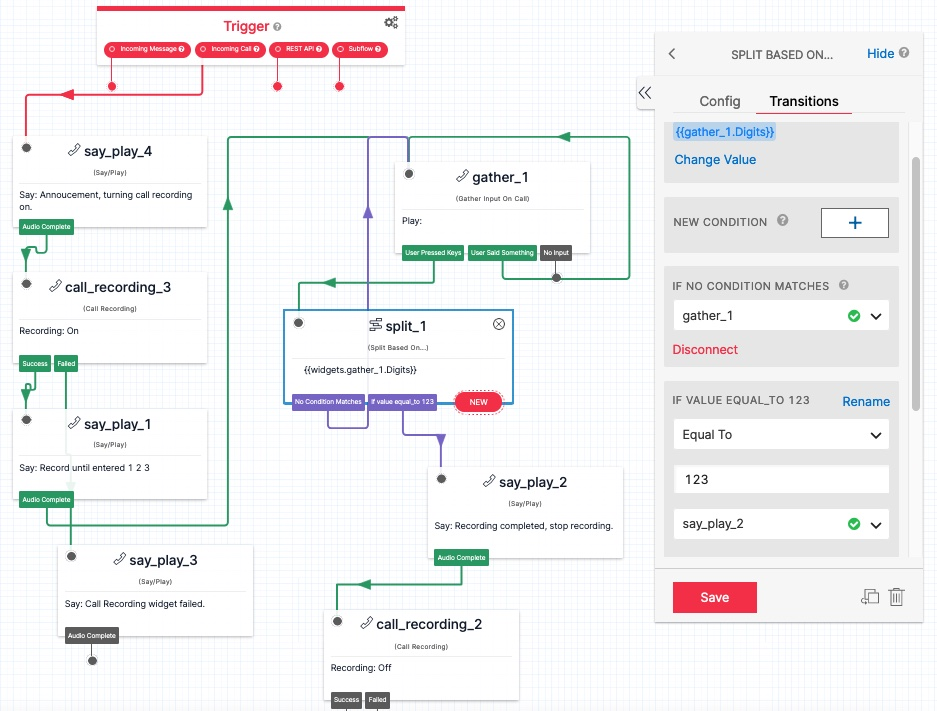
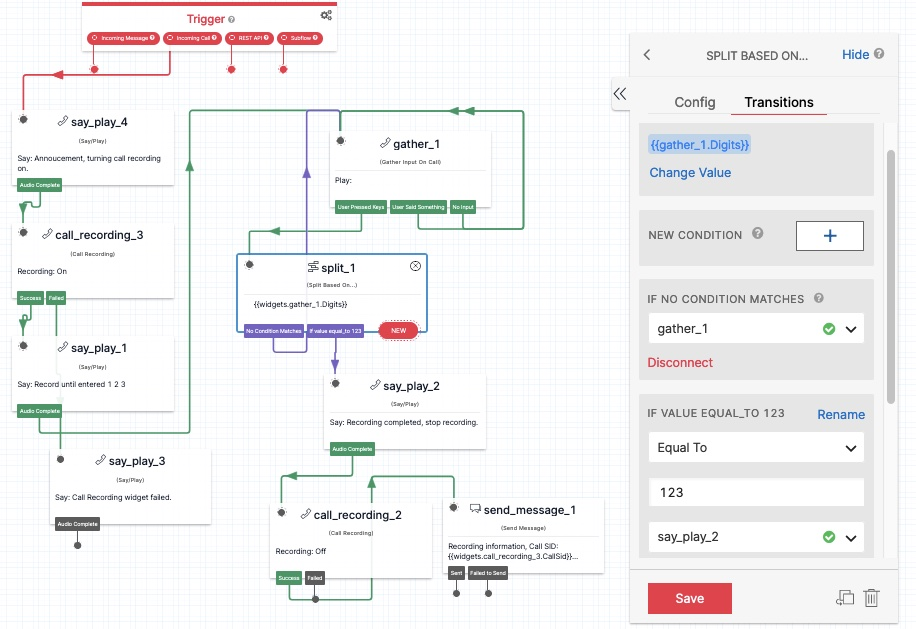
Update

diff --git a/studio/VoiceRecordCode/StudioFlowJSON.md b/studio/VoiceRecordCode/StudioFlowJSON.md
@@ -1,0 +1,248 @@
+{
+  "description": "Gather until code entered",
+  "states": [
+    {
+      "name": "Trigger",
+      "type": "trigger",
+      "transitions": [
+        {
+          "event": "incomingMessage"
+        },
+        {
+          "next": "say_play_4",
+          "event": "incomingCall"
+        },
+        {
+          "event": "incomingRequest"
+        },
+        {
+          "event": "incomingParent"
+        }
+      ],
+      "properties": {
+        "offset": {
+          "x": -280,
+          "y": 20
+        }
+      }
+    },
+    {
+      "name": "say_play_1",
+      "type": "say-play",
+      "transitions": [
+        {
+          "next": "gather_1",
+          "event": "audioComplete"
+        }
+      ],
+      "properties": {
+        "voice": "Polly.Amy",
+        "offset": {
+          "x": -410,
+          "y": 640
+        },
+        "loop": 1,
+        "say": "Record until entered 1 2 3",
+        "language": "en-GB"
+      }
+    },
+    {
+      "name": "gather_1",
+      "type": "gather-input-on-call",
+      "transitions": [
+        {
+          "next": "split_1",
+          "event": "keypress"
+        },
+        {
+          "next": "gather_1",
+          "event": "speech"
+        },
+        {
+          "next": "gather_1",
+          "event": "timeout"
+        }
+      ],
+      "properties": {
+        "number_of_digits": 3,
+        "speech_timeout": "auto",
+        "offset": {
+          "x": 180,
+          "y": 260
+        },
+        "loop": 1,
+        "finish_on_key": "#",
+        "stop_gather": true,
+        "gather_language": "en",
+        "profanity_filter": "false",
+        "timeout": 30
+      }
+    },
+    {
+      "name": "split_1",
+      "type": "split-based-on",
+      "transitions": [
+        {
+          "next": "gather_1",
+          "event": "noMatch"
+        },
+        {
+          "next": "say_play_2",
+          "event": "match",
+          "conditions": [
+            {
+              "friendly_name": "If value equal_to 123",
+              "arguments": [
+                "{{widgets.gather_1.Digits}}"
+              ],
+              "type": "equal_to",
+              "value": "123"
+            }
+          ]
+        }
+      ],
+      "properties": {
+        "input": "{{widgets.gather_1.Digits}}",
+        "offset": {
+          "x": 10,
+          "y": 490
+        }
+      }
+    },
+    {
+      "name": "say_play_2",
+      "type": "say-play",
+      "transitions": [
+        {
+          "next": "call_recording_2",
+          "event": "audioComplete"
+        }
+      ],
+      "properties": {
+        "voice": "Polly.Amy",
+        "offset": {
+          "x": 170,
+          "y": 710
+        },
+        "loop": 1,
+        "say": "Recording completed,\nstop recording.",
+        "language": "en-GB"
+      }
+    },
+    {
+      "name": "call_recording_2",
+      "type": "record-call",
+      "transitions": [
+        {
+          "next": "send_message_1",
+          "event": "success"
+        },
+        {
+          "event": "failed"
+        }
+      ],
+      "properties": {
+        "record_call": false,
+        "offset": {
+          "x": 70,
+          "y": 950
+        },
+        "trim": "do-not-trim",
+        "recording_status_callback": "",
+        "recording_status_callback_method": "POST",
+        "recording_status_callback_events": "completed",
+        "recording_channels": "dual"
+      }
+    },
+    {
+      "name": "call_recording_3",
+      "type": "record-call",
+      "transitions": [
+        {
+          "next": "say_play_1",
+          "event": "success"
+        },
+        {
+          "next": "say_play_3",
+          "event": "failed"
+        }
+      ],
+      "properties": {
+        "record_call": true,
+        "offset": {
+          "x": -410,
+          "y": 430
+        },
+        "trim": "do-not-trim",
+        "recording_status_callback": "https://tfpecho.herokuapp.com/rec",
+        "recording_status_callback_method": "POST",
+        "recording_status_callback_events": "completed",
+        "recording_channels": "dual"
+      }
+    },
+    {
+      "name": "say_play_3",
+      "type": "say-play",
+      "transitions": [
+        {
+          "event": "audioComplete"
+        }
+      ],
+      "properties": {
+        "offset": {
+          "x": -340,
+          "y": 850
+        },
+        "loop": 1,
+        "say": "Call Recording widget failed."
+      }
+    },
+    {
+      "name": "say_play_4",
+      "type": "say-play",
+      "transitions": [
+        {
+          "next": "call_recording_3",
+          "event": "audioComplete"
+        }
+      ],
+      "properties": {
+        "voice": "Polly.Amy",
+        "offset": {
+          "x": -410,
+          "y": 220
+        },
+        "loop": 1,
+        "say": "Annoucement, turning call recording on.",
+        "language": "en-GB"
+      }
+    },
+    {
+      "name": "send_message_1",
+      "type": "send-message",
+      "transitions": [
+        {
+          "event": "sent"
+        },
+        {
+          "event": "failed"
+        }
+      ],
+      "properties": {
+        "offset": {
+          "x": 390,
+          "y": 940
+        },
+        "service": "{{trigger.message.InstanceSid}}",
+        "channel": "{{trigger.message.ChannelSid}}",
+        "from": "{{flow.channel.address}}",
+        "to": "+16505552222",
+        "body": "Recording information,\nCall SID: {{widgets.call_recording_3.CallSid}} \nRecording Sid: {{widgets.call_recording_3.Sid}} \nTap to listen: https://api.twilio.com/2010-04-01/Accounts/\n{{widgets.call_recording_3.AccountSid}}/Recordings/{{widgets.call_recording_3.Sid}}"
+      }
+    }
+  ],
+  "initial_state": "Trigger",
+  "flags": {
+    "allow_concurrent_calls": true
+  }
+}

diff --git a/studio/VoiceRecordCode/README.md b/studio/VoiceRecordCode/README.md
@@ -9,6 +9,76 @@ Recording loop, until a code is entered:
 
 <img src="RecordUntilCodeEntered.jpg" width="400"/>
 
+The sample Studio flow JSON includes a property that you should either remove or set.
+When the record is complete and ready to be downloaded or listened, Twilio will make a request to that URL.
+````
+"recording_status_callback": "https://example.com/record"
+````
+If you want to send an SMS message with the recording information, 
+add the following into the body of the SMS Message send widget:
+````
+Recording information,
+Call SID: {{widgets.call_recording_3.CallSid}} 
+Recording Sid: {{widgets.call_recording_3.Sid}} 
+Tap to listen: https://api.twilio.com/2010-04-01/Accounts/
+{{widgets.call_recording_3.AccountSid}}/Recordings/{{widgets.call_recording_3.Sid}}
+````
+And, in the SMS Message send widget, set the To phone number:
+````
+"to": "+16505552222"
+````
+
+Sample request from Twilio:
+````
+--------------------------------------------------------------------------------------
++ POST URL : https://tfpecho.herokuapp.com/rec
+--------------
++ Headers : 
+++ 0: "host":"tfpecho.herokuapp.com"
+++ 1: "connection":"close"
+++ 2: "content-type":"application/x-www-form-urlencoded; charset=UTF-8"
+++ 3: "i-twilio-idempotency-token":"d50dc30c-5d0d-418d-92ea-12cd8fd05f09"
+++ 4: "x-twilio-signature":"USnT9hzNGvu4NhpxyupDaSoSVyA="
+++ 5: "accept":"*/*"
+++ 6: "x-home-region":"us1"
+++ 7: "user-agent":"TwilioProxy/1.1"
+++ 8: "x-request-id":"7537df34-5cbc-4688-9a7d-cd3411114cbe"
+++ 9: "x-forwarded-for":"44.202.134.240"
+++ 10: "x-forwarded-proto":"https"
+++ 11: "x-forwarded-port":"443"
+++ 12: "via":"1.1 vegur"
+++ 13: "connect-time":"0"
+++ 14: "x-request-start":"1650498339596"
+++ 15: "total-route-time":"0"
+++ 16: "content-length":"495"
+--------------
++ POST content raw : 
+RecordingSource=StartCallRecordingAPI&RecordingTrack=both&RecordingSid=REe...1&RecordingUrl=https%3A%2F%2Fapi.twilio.com%2F2010-04-01%2FAccounts%2FACae...3%2FRecordings%2FREe...1&RecordingStatus=completed&RecordingChannels=2&ErrorCode=0&CallSid=CA4140f4ee9836c07ff474b7d2d9b7f75a&RecordingStartTime=Wed%2C%2020%20Apr%202022%2023%3A45%3A25%20%2B0000&AccountSid=ACa...3&RecordingDuration=11
++ POST content name value pairs: 
+   "RecordingSource": "StartCallRecordingAPI",
+   "RecordingTrack": "both",
+   "RecordingSid": "REebf78ad0825ad0baefd8eab4dae55691",
+   "RecordingUrl": "https://api.twilio.com/2010-04-01/Accounts/ACa...3/Recordings/REe...1",
+   "RecordingStatus": "completed",
+   "RecordingChannels": "2",
+   "ErrorCode": "0",
+   "CallSid": "CA4140f4ee9836c07ff474b7d2d9b7f75a",
+   "RecordingStartTime": "Wed, 20 Apr 2022 23:45:25 +0000",
+   "AccountSid": "ACa...3",
+   "RecordingDuration": "11",
+````
+SMS message with the Recording info:
+````
+Recording information,
+Call SID: CAea46c7a62a66dd9ddd6399ca0f0a885e 
+Recording Sid: REe...1
+Tap to listen: 
+````
+Then, add the Recording Sid into the following URL:
+````
+https://api.twilio.com/2010-04-01/Accounts/ACa...3/Recordings/REe...1
+````
+
 --------------------------------------------------------------------------------
 
 
